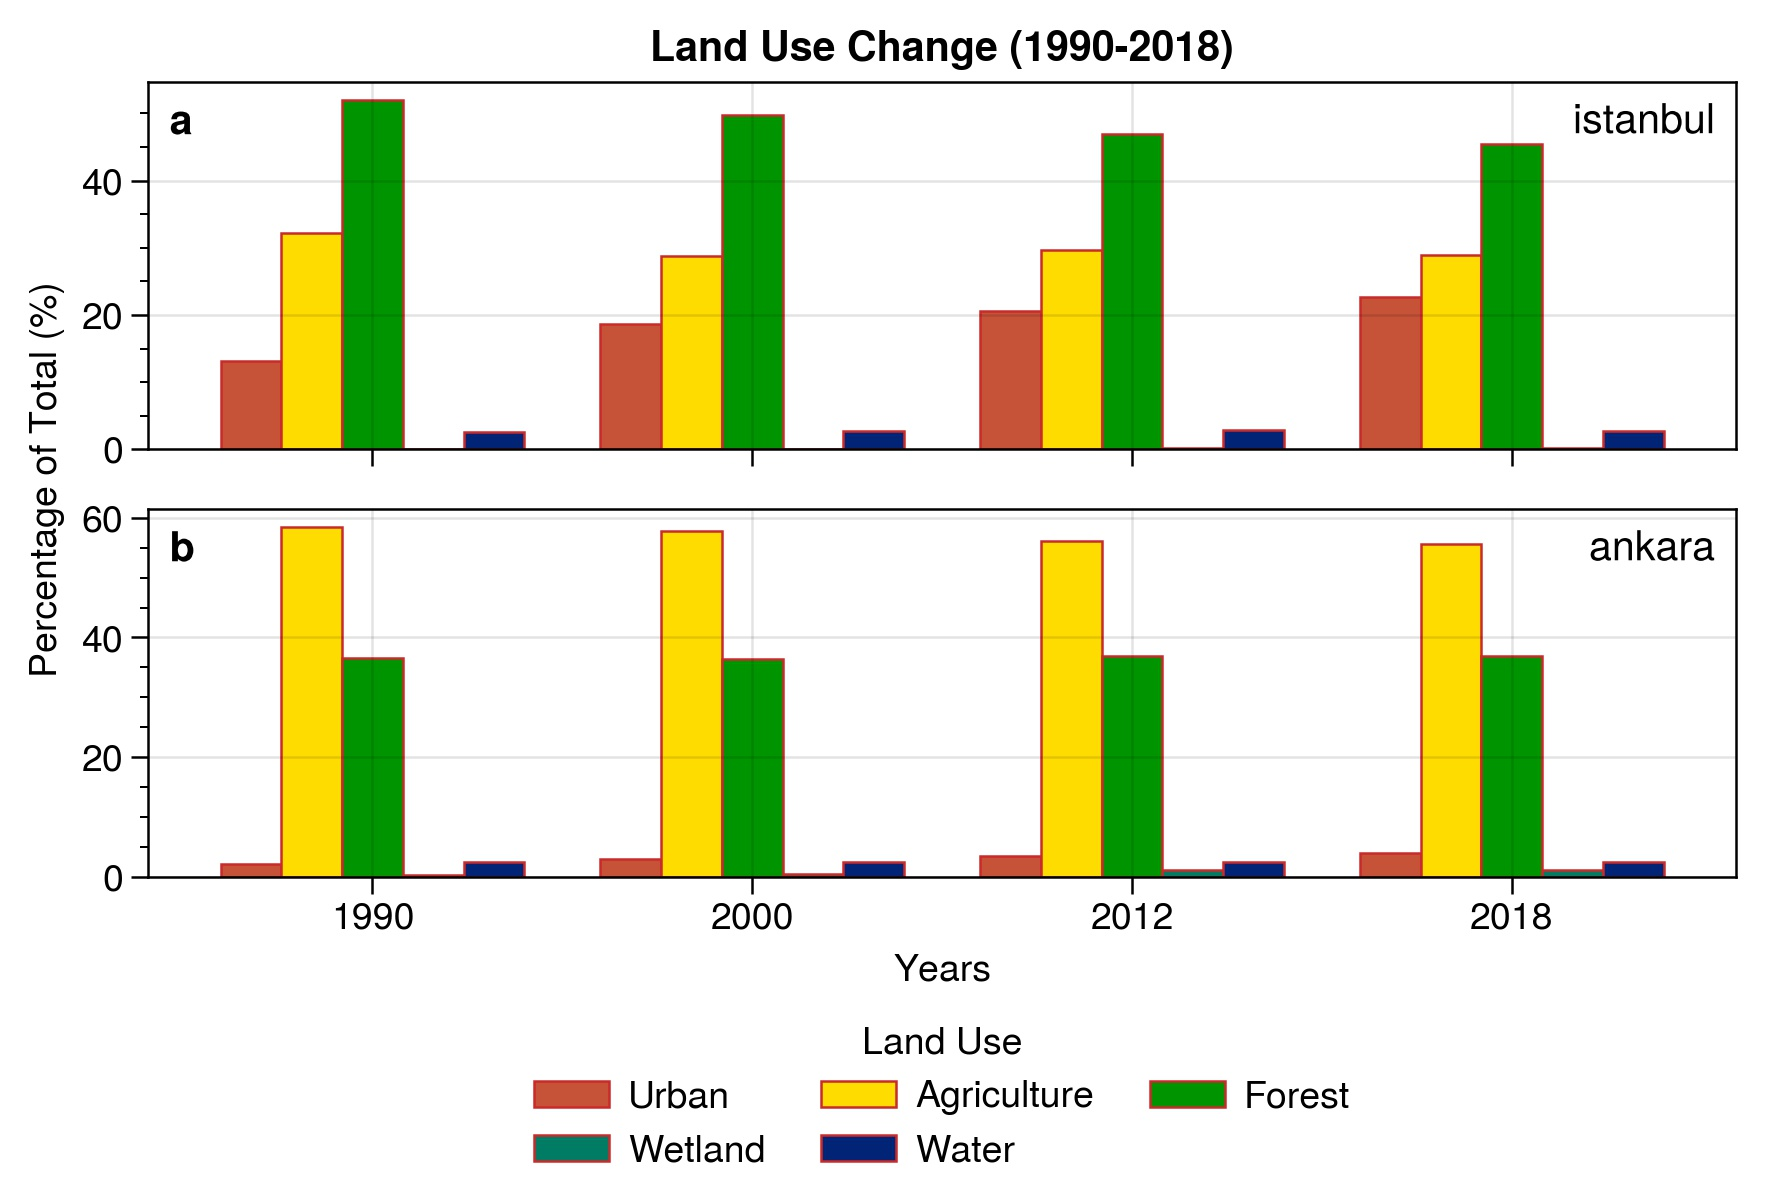
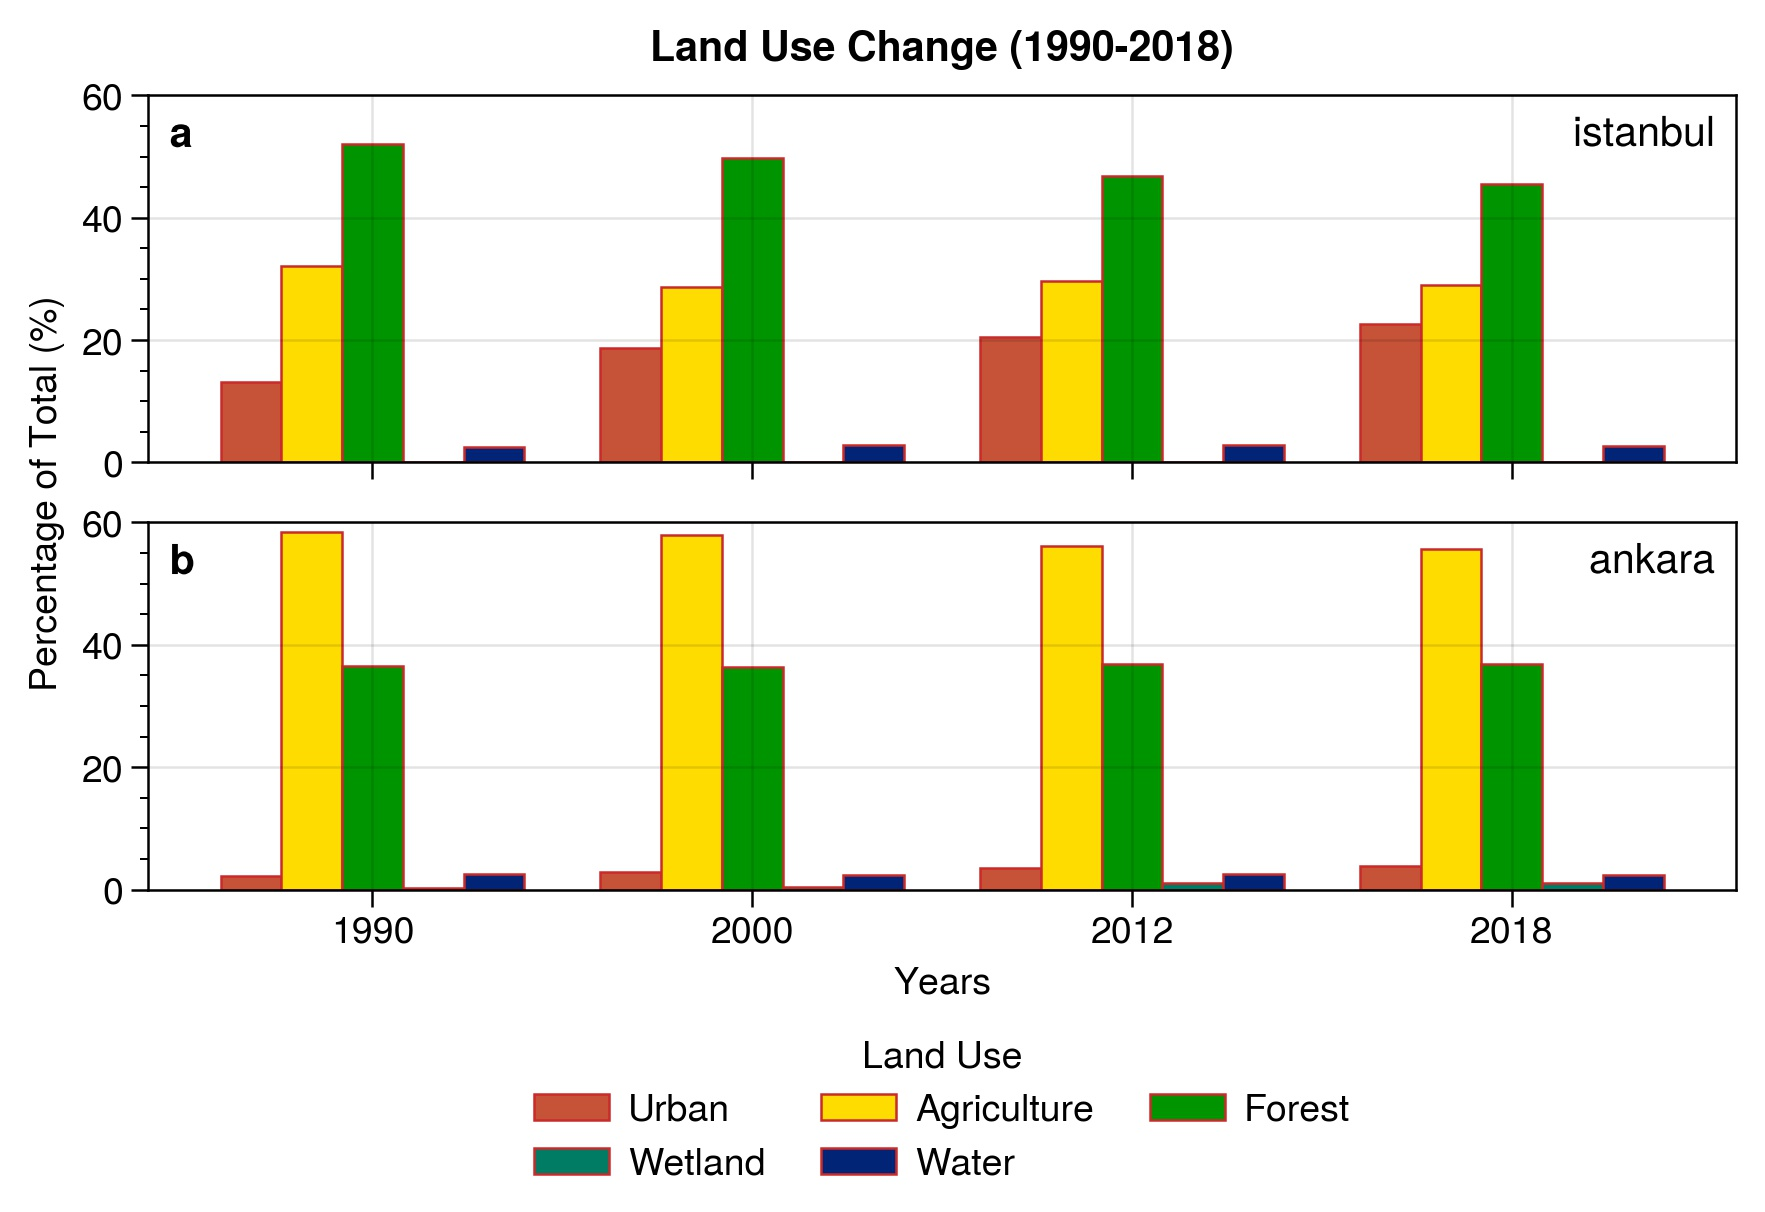
#update corine barplot ylim

diff --git a/utils/visualization_codes.py b/utils/visualization_codes.py
@@ -133,6 +133,8 @@ def corine_yearly_pdf_change_plot(dt, method, fig_array, indexes, years, provinc
             df_tpose, cycle=color_list, edgecolor='red9', #colorbar='t', colorbar_kw={'frameon': True}
         )
         
+        axs[i].set_ylim([0, 60])
+        
         ylabel = 'Percentage of Total (%)'
         xlabel = 'Years'
         axs[i].format(xlocator=1,
